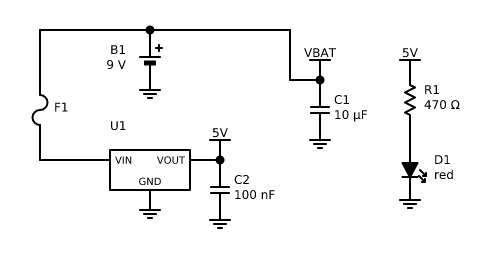
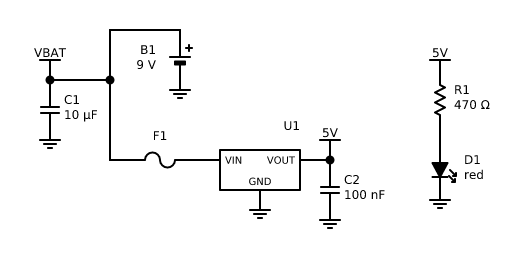
Report: follow-up on in-line series parts and the edit drift

diff --git a/docs/agent-reports/claude-power-path-redo.md b/docs/agent-reports/claude-power-path-redo.md
@@ -8,6 +8,7 @@ Branch `claude/power-path-redo`, made from `main` at `54d9ad4` in its own worktr
 | --- | --- | --- | --- |
 | M1 | Crystal: a two-pin part across two pins of one chip stands beside them | `2249ca9` | yes |
 | M2 | PR #7 restored and integrated with the general layout | `69070e2`, `7dd7dc9` | yes |
+| Follow-up | A fuse or switch feeding a regulator pin lies in line with it; edit drift investigated | `5d52854` | partly, see below |
 | M3 | Before and after for every bench circuit with a series supply path | this report | yes (two circuits qualify) |
 
 - All 11 of PR #7's tests pass, unchanged.
@@ -95,7 +96,7 @@ The classifier still notes "U1 joins VBAT to 5V". But U1's input comes through s
 
 These come from `out/tools/extra.ts`, which draws the symbol test circuits and PR #7's four test circuits.
 
-PR #7's regulator test circuit: OUT now goes to the right with C2 beside it, instead of a wire up and across to a 5V symbol.
+PR #7's regulator test circuit has two changes. OUT now goes to the right with C2 beside it, instead of a wire up and across to a 5V symbol. Since the follow-up commit, fuse F1 also lies in line with VIN, instead of standing at the far left with a long loop.
 
 | PR #7 hooked in as it was | After |
 | --- | --- |
@@ -137,7 +138,7 @@ The NMOS motor driver: the fuse now feeds the 12V rail by wire, which is what PR
 
 I compared every bench SVG byte for byte with `main`: only `regulator.svg` differs.
 
-## The four checks on the final code commit (`7dd7dc9`)
+## The four checks on the final code commit (`5d52854`)
 
 This report's own commit adds only files under `docs/`.
 
@@ -152,7 +153,7 @@ This report's own commit adds only files under `docs/`.
 
 ```
  Test Files  32 passed (32)
-      Tests  665 passed (665)
+      Tests  666 passed (666)
 ```
 
 `npm run phase0`, exit 0:
@@ -210,19 +211,43 @@ All of these are new and none were weakened. PR #7's `tests/power-path.test.ts` 
   - ignoring a part across two chips;
   - the crystal standing between its pins with no hint;
   - the same for a resistor.
-- `tests/power-path-layout.test.ts` (7 tests):
+- `tests/power-path-layout.test.ts` (8 tests):
   - OUT on the right with its capacitors in a row, smallest nearest, one symbol;
   - an input with a load going to the left;
   - an input with no load keeping its symbol;
   - decoupled input capacitors keeping their top slots;
+  - a fuse alone on the input's net lying in line with the input pin;
   - three `pathAnchors` unit tests (order, leading value, a non-capacitor load).
 
 One of my own new tests was wrong at first. It expected an input with no load at all to go on the left, but the rule (on purpose) gives such a pin its symbol back. I fixed the test, not the code, and added a separate test for the load case.
 
 ## What I skipped, and open questions
 
-- **PR #7's other drawings are as PR #7 made them.** The fuse, switch and high-side PMOS test circuits (`pp-fuse`, `pp-nosym`, `pp-pmos`) still route their path wires wherever the router finds room, and `pp-pmos` loops round its transistor. None of them is on the bench, and PR #7's tests pass on them. Placing fuses and switches with the same "stand beside" idea is the obvious next step. I did not do it, to keep this change small.
+- **PR #7's other drawings are as PR #7 made them.** The fuse, switch and high-side PMOS test circuits (`pp-fuse`, `pp-nosym`, `pp-pmos`) still route their path wires wherever the router finds room, and `pp-pmos` loops round its transistor. None of them is on the bench, and PR #7's tests pass on them. The follow-up below covers only a fuse or switch that feeds a regulator.
 - **Input capacitors and the decoupling reach.** A row of two input capacitors on the left would match the output side. But convention C13 (at most 8 G from the pin) cannot be met by two labelled capacitors side by side. Is 8 G right for a regulator's input bulk capacitor, or should the row count as one group? I did not touch the conventions.
-- **One hand edit moves more than on `main`.** On `regulator`, I added a part, then lengthened C3's value to "100 nF X7R 50 V". The longer label pushes C4 and the column to its right 6 G. That averages 2.4 G over the untouched parts, above the 2 G limit; `main` gives 1.2 G. The random sweep in `tests/edits.test.ts` is unaffected (131 of 137 on both).
-- **sensor-node shows no power path.** Its regulator board keeps symbols on both sides, because neither pin has a two-pin load to stand beside it. Drawing VBAT, through SW1, into the regulator as one wired line would need the switch to be placed by the same rule.
+- **One hand edit moves more than on `main`** (see the follow-up for what I tried). On `regulator`, I added a part, then lengthened C3's value to "100 nF X7R 50 V". The longer label pushes C4 and the column to its right 6 G. That averages 2.4 G over the untouched parts, above the 2 G limit; `main` gives 1.2 G. The random sweep in `tests/edits.test.ts` is unaffected (131 of 137 on both).
+- **sensor-node shows no power path.** Its regulator board keeps symbols on both sides, because neither pin has a two-pin load to stand beside it. Drawing VBAT, through SW1, into the regulator as one wired line would need the switch to be placed by the same rule. I tried that in the follow-up, and it failed.
 - I did not run anything under the reserved test set, `npm run gates -- --test` or `npm run phase0 -- --test`, and did not update the bench baseline.
+
+## Follow-up after the PR was opened
+
+**A fuse or switch feeding a regulator pin lies in line with it (`5d52854`).**
+- **Rule:** a built-in two-pin part that is alone with a regulator's side pin on a wired net lies on that pin's row. Its near pin faces the regulator, and it rides with the regulator as a rigid child.
+- **Implementation:** this reuses `standBeside`, with a new in-line mode.
+- **Results:**
+  - bench unchanged (906.2, the same 18 drawings);
+  - phase0 unchanged (all 31 drawings identical to `main`);
+  - edit sweep unchanged (131 of 137);
+  - 666 tests pass.
+- **Where it shows:** PR #7's regulator test circuit (image above) is the only drawing it changes.
+
+**Tried and reverted: a fuse or switch standing on a battery terminal.** The aim was to draw sensor-node's B1, SW1 and VBAT, and the motor driver's B1, F1 and 12V, as one vertical line.
+- The rule was: a two-pin part alone on a battery terminal's net, leading to a supply symbol, rides with the battery and stands on its + pin.
+- Tying the switch to the battery as its host changed the flow ranks of the whole sheet. sensor-node went from 92.1 to 196.8 and spread out, and SW1 still did not land on the battery. The motor driver threw its battery and fuse to the far right.
+- I reverted it. Doing this properly needs the battery and its series parts to enter the flow as one block, which is a bigger change than a rigid child.
+
+**Edit drift: investigated, not fixed.** The hand edit makes C3's label about 6 G longer. I tried two things:
+- **The committed behaviour:** C3 keeps its place, and the untouched C4 moves out 6 G. The next column (J2, R1, R9) follows, which averages 2.4 G over the untouched parts. The maximum, 6 G, is within the limit.
+- **Untouched loads first:** C4 kept its place, but C3 went past it, and its long label pushed the next column 13 G. That gave a 3.9 G average and a 13 G maximum, so I reverted it.
+
+The drift comes from keeping the row in the regulator's column: a label that grows 6 G widens that column, so something has to move 6 G. On `main`, only C4 and J2 move, because the capacitors are in their own columns. Fixing it would mean spare room in the row, which costs wire and area on every drawing, or wrapping long values onto two lines. I left it as an open point.
